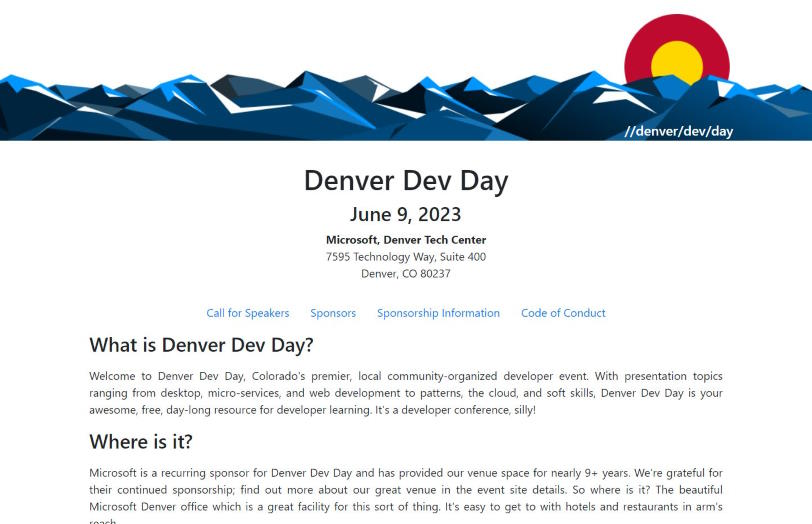
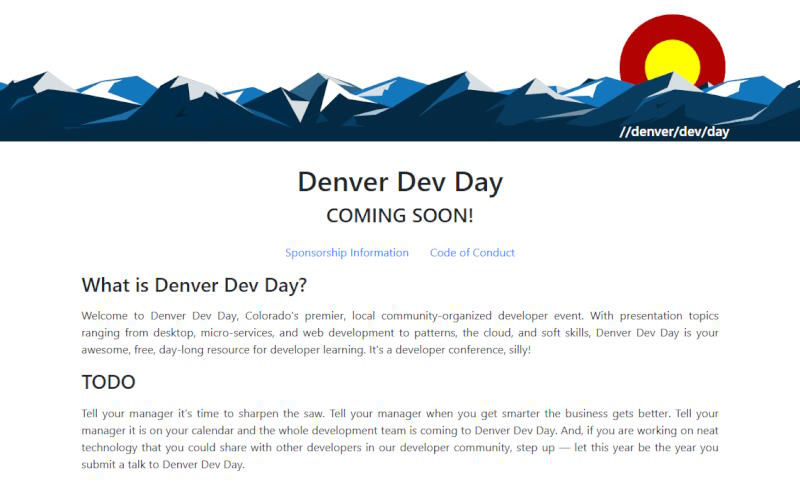
Updating root site

Changed region(s): [[0.0938, 0.5368, 0.9062, 1.0], [0.0, 0.0, 1.0, 0.2982], [0.3438, 0.328, 0.6562, 0.5368]]

diff --git a/index.html b/index.html
@@ -2,7 +2,6 @@
 <html lang="en">
 <head>
     <title>Denver Dev Day</title>
-    <meta http-equiv="refresh" content="0;URL=/oct-2024/">
     <meta charset="utf-8">
     <meta name="viewport" content="width=device-width, initial-scale=1, shrink-to-fit=no">
     <meta property="og:title" content="Denver Dev Day">
@@ -22,7 +21,7 @@
 
 <div class="container-fluid p-0">
     <div class="container p-0 mr-auto text-right h-200">
-        <img class="co-sun" src="./assets/co-sun.png">
+        <img class="co-sun" src="./assets/sun.svg" width="170" height="170">
     </div>
     <div class="row p-0 m-0 w-100 mx-auto h-200 co-mountains">
     </div>
@@ -35,24 +34,12 @@
     <div class="row align-items-start">
         <div class="col container text-center">
             <h1>Denver&nbsp;Dev&nbsp;Day</h1>
-            <h3>October&nbsp;18,&nbsp;2024</h3>
-            <address>
-                <strong>Microsoft, Denver Tech Center</strong><br/>
-                7595 Technology Way, Suite 400<br/>
-                Denver, CO&nbsp;80237
-            </address>
+            <h3>COMING SOON!</h3>
         </div>
     </div>
-</div>
 
 <div id="menu" class="container-fluid mt-3 mb-3">
     <div class="row justify-content-md-center">
-        <div class="col-md-auto">
-            <a href="./may-2024/index.html">May&nbsp;31, 2023 Event</a>
-        </div>
-        <div class="col-md-auto">
-            <a href="./index.html#sponsors">Sponsors</a>
-        </div>
         <div class="col-md-auto">
             <a href="./sponsorship.html#info">Sponsorship Information</a>
         </div>
@@ -68,23 +55,13 @@
     With presentation topics ranging from desktop, micro-services, and web development to patterns, the cloud, and soft
     skills, Denver Dev Day is your awesome, free, day-long resource for developer learning. It's a developer conference, silly!</p>
 
-    <h3 class="mb-3">Where is it?</h3>
-    <p class="text-justify">Microsoft is a recurring sponsor for Denver Dev Day and has provided our venue space for
-    nearly a decade. We're grateful for their continued sponsorship; find out more about our great venue
-    in the event site details. So where is it? The beautiful Microsoft Denver office which is a great facility for this
-    sort of thing. It's easy to get to with hotels and restaurants in arm's reach.</p>
+    <h3 class="mb-3">TODO</h3>
+    <p class="text-justify">Tell your manager it's time to sharpen the saw. Tell your manager when you get smarter the
+    business gets better. Tell your manager  it is on your calendar and the whole
+    development team is coming to Denver Dev Day. And, if you are working on neat technology that you could share with
+    other developers in our developer community, step up&nbsp;&mdash; let this year be the year you submit a talk to Denver Dev Day.</p>
 </div>
 
-<div id="sponsors" class="container-fluid mt-5 mb-5">
-    <h2 class="mb-3">Sponsors</h2>
-    <a name="sponsors"></a>
-    <div class="container text-center">
-        <div class="row align-items-center">
-            <div class="col p-3">
-                <a href="https://www.microsoft.com/"><img class="img-fluid" src="./assets/sponsors/microsoft.png" title="Microsoft"></a>
-            </div>
-        </div>
-    </div>
 </div>
 
 </body>

diff --git a/sponsorship.html b/sponsorship.html
@@ -14,7 +14,7 @@
 
 <div class="container-fluid p-0">
     <div class="container p-0 mr-auto text-right h-200">
-        <img class="co-sun" src="./assets/co-sun.png">
+        <img class="co-sun" src="./assets/sun.svg" width="180" height="180">
     </div>
     <div class="row p-0 m-0 w-100 mx-auto h-200 co-mountains">
     </div>
@@ -27,31 +27,20 @@
     <div class="row align-items-start">
         <div class="col container text-center">
         <h1>Denver&nbsp;Dev&nbsp;Day</h1>
-        <h3>Coming soon in May&nbsp;2024</h3>
-        <address>
-            <strong>Microsoft, Denver Tech Center</strong><br/>
-            7595 Technology Way, Suite 400<br/>
-            Denver, CO&nbsp;80237
-        </address>
+        <h3>COMING SOON!</h3>
     </div>
-</div>
 
-<div id="menu" class="container-fluid mt-3 mb-3">
-    <div class="row justify-content-md-center">
-        <div class="col-md-auto">
-            <a href="./oct-2023/index.html">October&nbsp;27, 2023 Event</a>
-        </div>
-        <div class="col-md-auto">
-            <a href="./index.html#sponsors">Sponsors</a>
-        </div>
-        <div class="col-md-auto">
-            <a href="#info">Sponsorship Information</a>
-        </div>
-        <div class="col-md-auto">
-            <a href="./code-of-conduct.html#coc">Code of Conduct</a>
+
+    <div id="menu" class="container-fluid mt-3 mb-3">
+        <div class="row justify-content-md-center">
+            <div class="col-md-auto">
+                <a href="#info">Sponsorship Information</a>
+            </div>
+            <div class="col-md-auto">
+                <a href="./code-of-conduct.html#coc">Code of Conduct</a>
+            </div>
         </div>
     </div>
-</div>
 
 <div id="info" class="container-fluid mt-5 mb-5">
     <a name="info"></a>
@@ -59,7 +48,7 @@
     <p class="text-justify">
         <img src="./assets/flyer/ddd.jpg" title="//denver/dev/day" class="img-thumbnail mr-3" style="float:left;"/>
         Denver Dev Day is making plans for our next event, to be held at the
-        Microsoft Office in the Denver Tech Center in Ocrober 2023. The
+        Red Rocks Community College in Lakewood on June 20<sup>th</sup>&nbsp;2025. The
         success of Denver Dev Day is, in part, due to our sponsors. For a cash
         donation, your company or group can enjoy excellent exposure to a segment
         of your target audience.
@@ -282,6 +271,8 @@
     <h4 class="mt-5">Contact</h4>
     <p class="text-justify"><strong>Thank you for your consideration.</strong> <a href="mailto:sponsors@denverdevday.com">sponsors@denverdevday.com</a>
     </p>
+</div>
+
 </div>
 
 </body>

diff --git a/code-of-conduct.html b/code-of-conduct.html
@@ -7,19 +7,19 @@
     <link rel="stylesheet" href="https://maxcdn.bootstrapcdn.com/bootstrap/4.0.0-beta.2/css/bootstrap.min.css" integrity="sha384-PsH8R72JQ3SOdhVi3uxftmaW6Vc51MKb0q5P2rRUpPvrszuE4W1povHYgTpBfshb" crossorigin="anonymous">
     <link rel="stylesheet" href="https://cdnjs.cloudflare.com/ajax/libs/font-awesome/4.7.0/css/font-awesome.min.css">
     <link rel="stylesheet" href="./ddd.css">
-    <link rel="shortcut icon" type="image/x-icon" href="/favicon.png">
+    <link rel="shortcut icon" type="image/x-icon" href="./assets/favicon.png">
 </head>
 
 <body>
 
 <div class="container-fluid p-0">
     <div class="container p-0 mr-auto text-right h-200">
-        <img class="co-sun" src="./assets/co-sun.png">
+        <img class="co-sun" src="./assets/sun.svg" width="180" height="180">
     </div>
     <div class="row p-0 m-0 w-100 mx-auto h-200 co-mountains">
     </div>
     <div class="container body-wrap pr-15 mr-auto text-right co-ddd">
-        <a href="/index.html">//denver/dev/day</a>
+        <a href="./index.html">//denver/dev/day</a>
     </div>
 </div>
 
@@ -27,29 +27,18 @@
     <div class="row align-items-start">
         <div class="col container text-center">
         <h1>Denver&nbsp;Dev&nbsp;Day</h1>
-        <h3>Coming soon in May&nbsp;2024</h3>
-        <address>
-            <strong>Microsoft, Denver Tech Center</strong><br/>
-            7595 Technology Way, Suite 400<br/>
-            Denver, CO&nbsp;80237
-        </address>
+        <h3>COMING SOON!</h3>
     </div>
 </div>
 
 <div id="menu" class="container-fluid mt-3 mb-3">
   <div class="row justify-content-md-center">
-      <div class="col-md-auto">
-          <a href="./oct-2023/index.html">October&nbsp;27, 2023 Event</a>
-      </div>
-      <div class="col-md-auto">
-          <a href="./index.html#sponsors">Sponsors</a>
-      </div>
-      <div class="col-md-auto">
-          <a href="./sponsorship.html#info">Sponsorship Information</a>
-      </div>
-      <div class="col-md-auto">
-          <a href="#coc">Code of Conduct</a>
-      </div>
+    <div class="col-md-auto">
+      <a href="./sponsorship.html#info">Sponsorship Information</a>
+    </div>
+    <div class="col-md-auto">
+      <a href="#coc">Code of Conduct</a>
+    </div>
   </div>
 </div>
 

diff --git a/ddd.css b/ddd.css
@@ -44,9 +44,14 @@ img.co-sun {
 div.co-mountains {
     position: absolute;
     z-index: 10;
-    top: 0px;
-    background: url('./assets/wrap-mountains.png') repeat-x right;
+    top: 100px;
+    height: 100px;
+    width: 100%;
+    background-image: url('./assets/mtn2.svg');
+    background-size: auto 100px;
+    background-repeat: repeat-x;
 }
+
 
 div.co-ddd {
     position: relative;
@@ -62,4 +67,12 @@ div.co-ddd {
 .co-ddd a {
     color: white;
     text-decoration: none;
+}
+
+div.show {
+    display: block;
+}
+
+div.hide {
+    display: none;
 }
